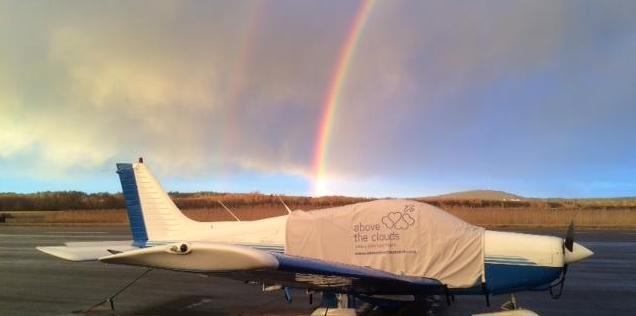
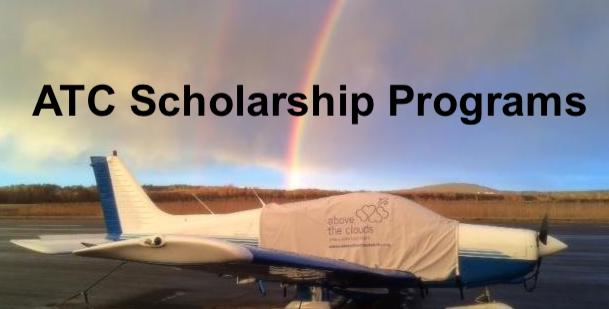
added scholarship and fixed video style

diff --git a/edulab/activities.html b/edulab/activities.html
@@ -274,21 +274,16 @@
 				</main>
 				<aside>
 					<div class="submit-testimonials">
-						<h2>Above The Clouds Scholarship Opportunities</h2>
-						<p>For more information about scholoarship opportunities provided by ATC, visit:</p>
-						<p>links</p>
-						<form>
-							<input type="text" placeholder="Your Name*" required>
-							<input type="email" name="userEmail" placeholder="Your Email Address..." required>
-							<input type="text" placeholder="Your Occupation*" required>
-							<input type="text" placeholder="Your title*" required>
-							<textarea placeholder="Write your message"></textarea>
-							<span>
-								<p>Rate us*</p> <div class="rateYo"></div>
-							</span>
-							<input id="file-upload" type="file" value="Upload Image*" accept="image/*" required>
-							<label for="file-upload" class="custom-file-upload">Upload Image*</label>
-							<input type="submit" value="Submit">
+						<img src="images/ATC_plane4.jpeg" alt="Image of Bannner">
+						<br><br>
+						<h2>Follow your aviation dreams with these scholarships from the ATC Scholarship Program! </h2>
+						<form action="https://abovethecloudskids.org/about-cadet-programs/scholarships-and-mentoring-initiatives/" target="_blank">
+							<input type="submit" value="List of Available Scholarships" />
+						</form>
+						<br><br>
+						<h2>Above the Clouds will be awarding five scholarships toward your pursuit of STEM and aviation programs.</h2>
+						<form action="https://form.jotform.com/221096320871149" target="_blank">
+							<input type="submit" value="Scholarship Application" />
 						</form>
 					</div>
 				</aside>

diff --git a/edulab/how-airplane-works.html b/edulab/how-airplane-works.html
@@ -109,7 +109,7 @@
 									<img src="https://i.ytimg.com/vi/F077WDnB8P8/maxresdefault.jpg" alt="Post Images">
 								</div>
 								<a href="#"><div class="post-content">
-									<h3>How do airplanes fly? (Part 1)</h3>
+									<h3>How do airplanes fly?<br>(Part 1)</h3>
 								</div></a>
 							</div>
 							<div class="post-wrap" onclick="showVideo('video2')">
@@ -117,7 +117,7 @@
 									<img src="https://i.ytimg.com/vi/j_C1iJ0i_Zc/hqdefault.jpg" alt="Post Images">
 								</div>
 								<a href="#"><div class="post-content">
-									<h3>How do airplanes fly? (Part 2)</h3>
+									<h3>How do airplanes fly?<br>(Part 2)</h3>
 								</div></a>
 							</div>
 							<div class="post-wrap" onclick="showVideo('video3')">
@@ -125,7 +125,7 @@
 									<img src="https://i.ytimg.com/vi/Gg0TXNXgz-w/maxresdefault.jpg" alt="Post Images">
 								</div>
 								<a href="#"><div class="post-content">
-									<h3>How do airplanes fly? (Physics)</h3>
+									<h3>How do airplanes fly?<br>(Physics)</h3>
 								</div></a>
 							</div>
 						</div>

diff --git a/edulab/style.css b/edulab/style.css
@@ -1728,10 +1728,6 @@ ul > li {
 	margin-left: 5px;
 }
 
-.submit-testimonials form span .rateYo {
-	display: inline-block;
-}
-
 .page-content .container aside .news-letter h2 {
 	/*font-size: 2.4rem;*/
 	text-align: center;
@@ -1800,16 +1796,16 @@ aside .news-letter hr {
 }
 
 .page-content .post-wrap .img-wrap {
-	width: 70px;
+	width: 100px;
 	object-fit: fill;
 }
 
 .page-content .post-wrap .img-wrap img{
-	height: 90px;
+	height: 70px;
 }
 
 .page-content .post-wrap .post-content {
-	width: 250px;
+	width: 238px;
 	/*background: #fff;*/
 	padding: 0.9375em;
 }
@@ -2579,6 +2575,7 @@ aside .reserve-course input[type="email"],
 
 .testimonial-page aside .submit-testimonials input[type="submit"] {
 	display: block;
+	width: 100%;
 }
 
 /*===Trainers========*/
